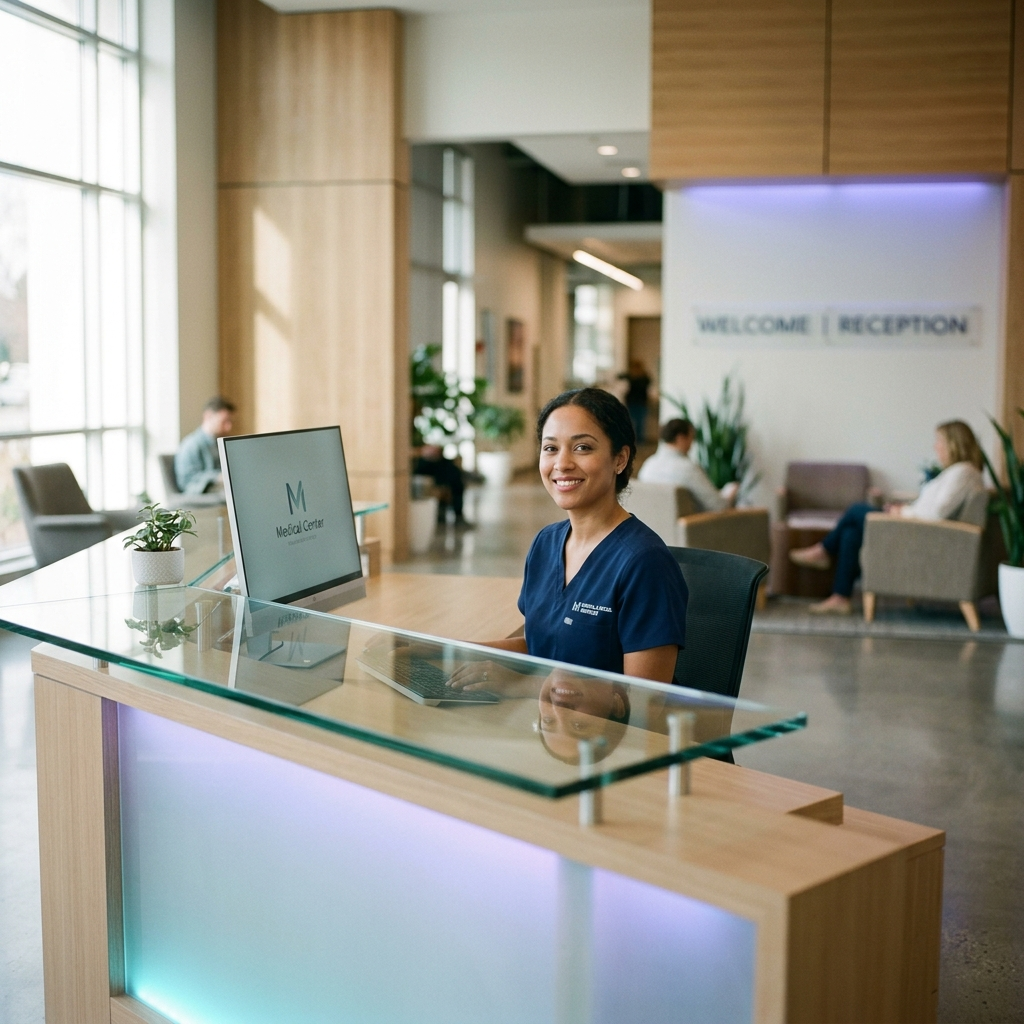
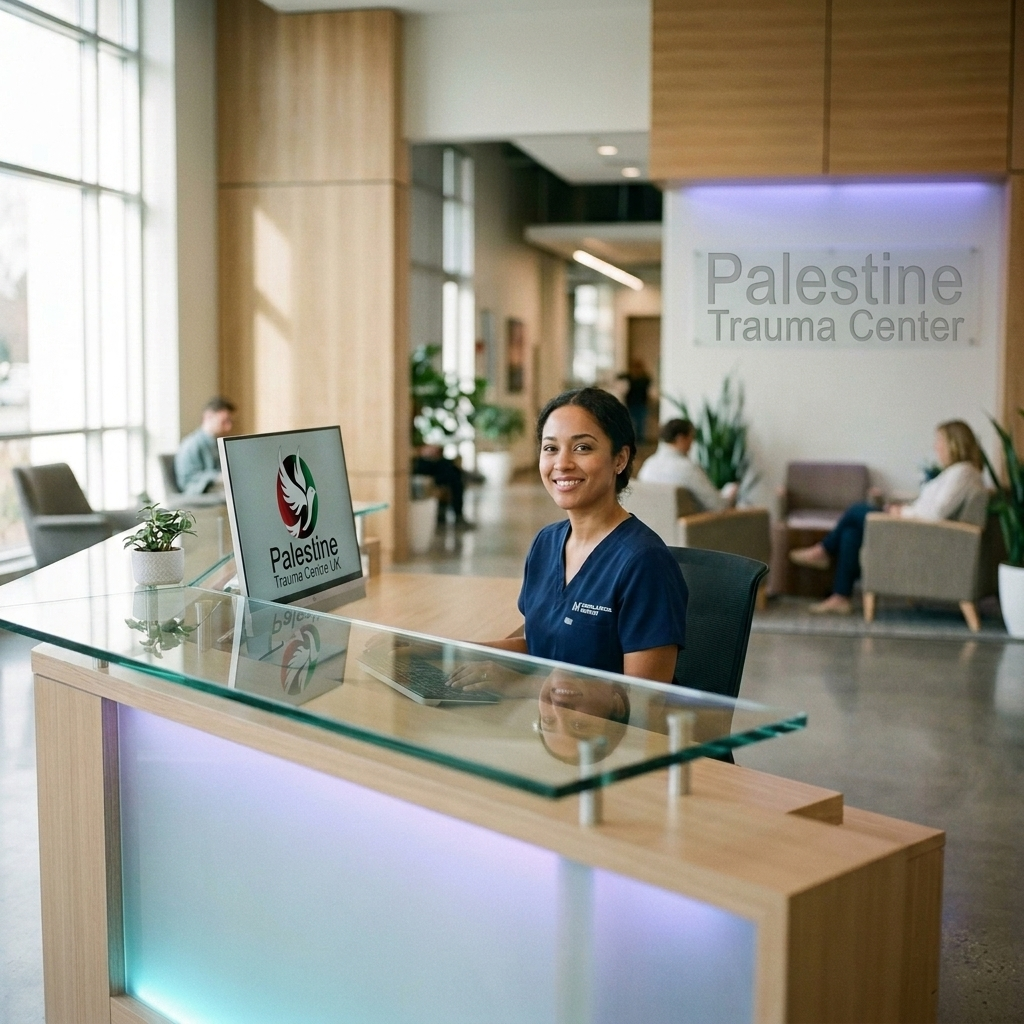
updates

diff --git a/public/assets/dashbaord/css/export-premium.css b/public/assets/dashbaord/css/export-premium.css
@@ -1,0 +1,159 @@
+/* ==========================================================================
+   Employee Export - Professional UI Standardization
+   ========================================================================== */
+
+/* Header Buttons Alignment Fix */
+.export-header-actions {
+    display: flex !important;
+    align-items: center !important;
+    gap: 12px !important;
+    margin-bottom: 1rem;
+}
+
+/* Premium Buttons Styling */
+.btn-premium-reset, .btn-premium-excel, .btn-premium-blue {
+    border-radius: 10px !important;
+    padding: 10px 24px !important;
+    font-weight: 600 !important;
+    display: inline-flex !important;
+    align-items: center !important;
+    gap: 10px !important;
+    transition: all 0.3s cubic-bezier(0.4, 0, 0.2, 1) !important;
+    font-size: 0.9rem !important;
+}
+
+.btn-premium-reset {
+    background: #fff !important;
+    border: 1px solid #ff4961 !important;
+    color: #ff4961 !important;
+}
+
+.btn-premium-reset:hover {
+    background: #fff5f6 !important;
+    box-shadow: 0 4px 12px rgba(255, 73, 97, 0.15) !important;
+    transform: translateY(-1px);
+}
+
+.btn-premium-excel {
+    background: #28a745 !important;
+    border: none !important;
+    color: #fff !important;
+    box-shadow: 0 4px 12px rgba(40, 167, 69, 0.2) !important;
+}
+
+.btn-premium-excel:hover {
+    background: #218838 !important;
+    box-shadow: 0 6px 15px rgba(40, 167, 69, 0.3) !important;
+    transform: translateY(-1px);
+}
+
+/* Premium Switch Box & Label */
+.premium-switch-box {
+    border-radius: 12px !important;
+    border: 1px solid #e2e8f0 !important;
+    padding: 12px 18px !important;
+    display: flex !important;
+    align-items: center !important;
+    justify-content: space-between !important;
+    background: #fff !important;
+    transition: all 0.2s ease !important;
+    height: 100%;
+}
+
+.premium-switch-box:hover {
+    border-color: #cbd5e1 !important;
+    background: #f8fafc !important;
+}
+
+.premium-switch-label {
+    font-size: 0.95rem !important;
+    font-weight: 600 !important;
+    color: #334155 !important;
+    margin: 0 !important;
+    line-height: 1.2 !important;
+}
+
+/* Modern Switch RTL Support - Corrected Selector */
+[data-textdirection="rtl"] .premium-switch-box {
+    flex-direction: row-reverse !important;
+}
+
+[data-textdirection="rtl"] .premium-switch-label {
+    text-align: right !important;
+}
+
+[data-textdirection="rtl"] .modern-slider:before {
+    left: auto !important;
+    right: 3px !important;
+}
+
+[data-textdirection="rtl"] input:checked + .modern-slider:before {
+    transform: translateX(-18px) !important;
+}
+
+/* Select2 Multi-select Positioning Fix (Universal Trailing Edge) */
+.select2-container--default .select2-selection--multiple .select2-selection__choice {
+    display: inline-flex !important;
+    align-items: center !important;
+    padding: 3px 12px !important;
+    gap: 0 !important; /* Managed by margins */
+}
+
+.select2-container--default .select2-selection--multiple .select2-selection__choice__remove {
+    float: none !important;
+    order: 2 !important; /* Forces X to the end of the text flow */
+    color: #fff !important;
+    opacity: 0.8;
+    font-weight: bold !important;
+    transition: all 0.2s ease;
+    border: none !important;
+}
+
+/* LTR Specifics: X to the Right */
+[data-textdirection="ltr"] .select2-selection__choice__remove {
+    margin-left: 8px !important;
+    margin-right: -4px !important;
+}
+
+/* RTL Specifics: X to the Left */
+[data-textdirection="rtl"] .select2-selection__choice__remove {
+    margin-right: 8px !important;
+    margin-left: -4px !important;
+}
+
+.select2-container--default .select2-selection--multiple .select2-selection__choice__remove:hover {
+    opacity: 1;
+    transform: scale(1.2);
+    background: transparent !important;
+}
+
+/* Section Titles Styling */
+.premium-section-title {
+    background-color: #f8fafc !important;
+    border-radius: 8px !important;
+    padding: 10px 15px !important;
+    margin-bottom: 1.5rem !important;
+    font-size: 1.05rem !important;
+    font-weight: 700 !important;
+    display: flex !important;
+    align-items: center !important;
+    gap: 12px !important;
+    color: #1e293b !important;
+}
+
+.premium-section-title-blue { border-left: 5px solid #1e9ff2 !important; }
+.premium-section-title-green { border-left: 5px solid #28d094 !important; }
+
+[data-textdirection="rtl"] .premium-section-title-blue {
+    border-left: none !important;
+    border-right: 5px solid #1e9ff2 !important;
+}
+[data-textdirection="rtl"] .premium-section-title-green {
+    border-left: none !important;
+    border-right: 5px solid #28d094 !important;
+}
+
+/* Utilities */
+.gap-2 { gap: 0.5rem !important; }
+.radius-10 { border-radius: 10px !important; }
+.radius-12 { border-radius: 12px !important; }

diff --git a/public/assets/employees/css/employee-premium.css b/public/assets/employees/css/employee-premium.css
@@ -712,7 +712,7 @@ p, span, div, li, a { font-size: 0.95rem !important; }
     padding-left: 5px !important;
 }
 
-.input-group-merge .form-control, 
+.input-group-merge .form-control,
 .input-group-merge .form-select {
     padding: 12px 10px !important;
     height: auto !important;
@@ -1476,9 +1476,10 @@ p, span, div, li, a { font-size: 0.95rem !important; }
     border-radius: 16px !important;
     background: var(--clean-white) !important;
     box-shadow: 0 4px 20px rgba(0,0,0,0.05) !important;
-    height: 100% !important;
     display: flex !important;
     flex-direction: column !important;
+    margin: 0 !important;
+    min-height: 100% !important;
 }
 
 .msg-sidebar-btn {
@@ -1567,9 +1568,10 @@ p, span, div, li, a { font-size: 0.95rem !important; }
     background: var(--clean-white) !important;
     box-shadow: 0 4px 20px rgba(0,0,0,0.05) !important;
     overflow: hidden;
-    height: 100% !important;
     display: flex !important;
     flex-direction: column !important;
+    margin: 0 !important;
+    min-height: 100% !important;
 }
 
 .msg-main-card .card-body {

diff --git a/resources/views/dashboard/employees/reports/partials/_columns.blade.php b/resources/views/dashboard/employees/reports/partials/_columns.blade.php
@@ -17,11 +17,11 @@
 
             <!-- Control Buttons -->
             <div class="row mb-3">
-                <div class="col-md-12">
-                    <button type="button" class="btn btn-info btn-glow btn-bulk-select mr-1 radius-12" id="select_all_columns">
+                <div class="col-md-12 d-flex gap-2">
+                    <button type="button" class="btn btn-info btn-glow btn-premium-blue radius-12 shadow-sm" id="select_all_columns">
                         <i class="la la-check-square"></i> {!! __('general.select_all') !!}
                     </button>
-                    <button type="button" class="btn btn-outline-danger btn-bulk-select radius-12" id="deselect_all_columns">
+                    <button type="button" class="btn btn-outline-danger btn-premium-reset radius-12 shadow-sm" id="deselect_all_columns">
                         <i class="la la-square-o"></i> {!! __('general.deselect_all') !!}
                     </button>
                 </div>
@@ -31,12 +31,12 @@
             <div class="row">
                 <div class="col-md-12">
                     <h5 class="premium-section-title premium-section-title-blue">
-                        <i class="la la-user text-primary"></i> {!! __('employees.basic') !!}
+                        <i class="la la-user"></i> {!! __('employees.basic') !!}
                     </h5>
                 </div>
                 @foreach ($employeeColumnNames as $column)
-                    <div class="col-md-3 mb-1">
-                        <div class="premium-switch-box">
+                    <div class="col-md-3 mb-2">
+                        <div class="premium-switch-box shadow-sm">
                             <span class="premium-switch-label">{!! __('employees.' . $column) !!}</span>
                             <label class="modern-switch">
                                 <input type="checkbox" name="columns[]" value="{{ $column }}"
@@ -48,7 +48,7 @@
                 @endforeach
             </div>
 
-            <hr class="my-3">
+            <hr class="my-3 opacity-20">
 
             <!-- Job Details Columns -->
             <div class="row">
@@ -58,8 +58,8 @@
                     </h5>
                 </div>
                 @foreach ($jobDetailsColumnNames as $column)
-                    <div class="col-md-3 mb-1">
-                        <div class="premium-switch-box">
+                    <div class="col-md-3 mb-2">
+                        <div class="premium-switch-box shadow-sm">
                             <span class="premium-switch-label">{!! __('employees.' . $column) !!}</span>
                             <label class="modern-switch">
                                 <input type="checkbox" name="columns[]" value="{{ $column }}"

diff --git a/resources/views/dashboard/employees/reports/report.blade.php b/resources/views/dashboard/employees/reports/report.blade.php
@@ -5,6 +5,7 @@
 
 @push('style')
     <link rel="stylesheet" href="{{ asset('assets/dashbaord/vendors/css/forms/selects/select2.min.css') }}">
+    <link rel="stylesheet" href="{{ asset('assets/dashbaord/css/export-premium.css') }}">
 @endpush
 
 @section('content')
@@ -45,13 +46,12 @@
 
                     <!-- begin: content header right-->
                     <div class="content-header-right col-md-6 col-12">
-                        <div class="float-md-right mb-2">
-
-                            <a href="" class="btn btn-sm btn-outline-danger mr-1 btn-premium-reset" id="employees_reset_btn">
+                        <div class="d-flex align-items-center justify-content-md-end justify-content-center gap-2 mb-2">
+                            <a href="" class="btn btn-outline-danger btn-premium-reset shadow-sm" id="employees_reset_btn">
                                 <i class="la la-refresh"></i> {!! __('general.reset') !!}
                             </a>
 
-                            <button class="btn btn-success btn-glow px-2 btn-premium-excel" type="submit">
+                            <button class="btn btn-premium-excel shadow-sm" type="submit">
                                 <i class="la la-file-excel-o"></i> {!! __('general.excel') !!}
                             </button>
                         </div>
@@ -147,11 +147,13 @@
                             if (response.status && response.data) {
                                 $.each(response.data, function(index, city) {
                                     // Handle translated city name
-                                    var cityName = typeof city.name === 'object' ? 
-                                                   ( $('html').attr('data-textdirection') == 'rtl' ? city.name.ar : city.name.en ) : 
-                                                   city.name;
-                                                   
-                                    $citySelect.append('<option value="' + city.id + '">' + cityName + '</option>');
+                                    var cityName = typeof city.name === 'object' ?
+                                        ($('html').attr('data-textdirection') == 'rtl' ?
+                                            city.name.ar : city.name.en) :
+                                        city.name;
+
+                                    $citySelect.append('<option value="' + city.id +
+                                        '">' + cityName + '</option>');
                                 });
                                 // Enable and refresh select2
                                 $citySelect.prop('disabled', false).trigger('change');

diff --git a/resources/views/livewire/employee/messages/message-center.blade.php b/resources/views/livewire/employee/messages/message-center.blade.php
@@ -1,7 +1,7 @@
-<div class="row align-items-stretch">
-    <div class="col-md-3 mb-4">
-        <div class="msg-sidebar-card shadow-sm border-0">
-            <div class="card-body p-0 h-100 d-flex flex-column">
+<div class="row no-gutters align-items-stretch" style="margin-left: -10px; margin-right: -10px;">
+    <div class="col-md-3 px-2 mb-4 d-flex flex-column" style="margin-top: 0 !important; padding-top: 0 !important;">
+        <div class="msg-sidebar-card shadow-sm border-0 flex-grow-1">
+            <div class="card-body p-0 d-flex flex-column h-100">
                 <div class="p-3 border-bottom text-center">
                     <button type="button" class="btn msg-sidebar-btn w-100"
                         data-bs-toggle="modal" data-bs-target="#composeModal">
@@ -35,17 +35,16 @@
     </div>
 
     <!-- Main Content -->
-    <div class="col-md-9 mb-4 {{ app()->getLocale() == 'ar' ? 'float-left' : '' }}">
-        <div class="h-100">
-            @if ($currentView === 'inbox')
-                <livewire:employee.messages.inbox wire:key="view-inbox-{{ $currentView }}" />
-            @elseif($currentView === 'sent')
-                <livewire:employee.messages.sent wire:key="view-sent-{{ $currentView }}" />
-            @elseif($currentView === 'starred')
-                <livewire:employee.messages.starred wire:key="view-starred-{{ $currentView }}" />
-            @elseif($currentView === 'trash')
-                <livewire:employee.messages.trash wire:key="view-trash-{{ $currentView }}" />
-            @endif
-        </div>
+    <div class="col-md-9 px-2 mb-4 d-flex flex-column" style="margin-top: 0 !important; padding-top: 0 !important;">
+        @if ($currentView === 'inbox')
+            <livewire:employee.messages.inbox wire:key="view-inbox-{{ $currentView }}" />
+        @elseif($currentView === 'sent')
+            <livewire:employee.messages.sent wire:key="view-sent-{{ $currentView }}" />
+        @elseif($currentView === 'starred')
+            <livewire:employee.messages.starred wire:key="view-starred-{{ $currentView }}" />
+        @elseif($currentView === 'trash')
+            <livewire:employee.messages.trash wire:key="view-trash-{{ $currentView }}" />
+        @endif
     </div>
 </div>
+

diff --git a/resources/views/dashboard/employees/reports/partials/_search-report.blade.php b/resources/views/dashboard/employees/reports/partials/_search-report.blade.php
@@ -28,11 +28,11 @@
                                 <option value="{{ $employee->id }}">{{ $employee->name }}</option>
                             @endforeach
                         </select>
-                        <div class="bulk-select-actions">
-                            <button type="button" class="btn btn-primary btn-glow btn-bulk-select" id="select_all_employees">
+                        <div class="bulk-select-actions d-flex gap-2 mt-2">
+                            <button type="button" class="btn btn-primary btn-glow btn-premium-add radius-10" id="select_all_employees">
                                 <i class="la la-check-square"></i> {!! __('general.select_all') !!}
                             </button>
-                            <button type="button" class="btn btn-outline-danger btn-bulk-select" id="deselect_all_employees">
+                            <button type="button" class="btn btn-outline-danger btn-premium-reset radius-10" id="deselect_all_employees">
                                 <i class="la la-times-circle"></i> {!! __('general.deselect_all') !!}
                             </button>
                         </div>

diff --git a/resources/views/dashboard/home/monthly-reports/modal.blade.php b/resources/views/dashboard/home/monthly-reports/modal.blade.php
@@ -6,7 +6,8 @@
 
             <!--begin::modal header-->
             <div class="modal-header">
-                <h5 class="modal-title font-weight-bold d-flex align-items-center" id="monthlyReportsEmployeesModalLabel"> 
+                <h5 class="modal-title font-weight-bold d-flex align-items-center"
+                    id="monthlyReportsEmployeesModalLabel">
                     <i class="la la-users text-primary mr-2"></i>
                     {!! __('monthlyReports.show_employees') !!}
                 </h5>

diff --git a/resources/views/layouts/employees/app.blade.php b/resources/views/layouts/employees/app.blade.php
@@ -28,7 +28,7 @@
     <link rel="stylesheet" href="{!! asset('vendor/flasher/flasher.min.css') !!}" rel="stylesheet">
     <link href="{!! asset('assets/employees/css/summernote.css') !!}" rel="stylesheet">
     <!-- End plugin css for this page -->
-    
+
     <!-- inject:css -->
     <link rel="stylesheet"
         href="{!! asset('assets/employees/css/style.css') !!}?v={{ file_exists(public_path('assets/employees/css/style.css')) ? filemtime(public_path('assets/employees/css/style.css')) : time() }}">

diff --git a/resources/views/livewire/employee/messages/inbox.blade.php b/resources/views/livewire/employee/messages/inbox.blade.php
@@ -1,5 +1,5 @@
-<div class="h-100">
-    <div class="msg-main-card border-0">
+<div class="h-100 d-flex flex-column flex-grow-1">
+    <div class="msg-main-card border-0 flex-grow-1">
         <div class="card-body">
             <div class="d-sm-flex justify-content-between align-items-center msg-card-header-premium">
                 <div>

diff --git a/resources/views/livewire/employee/messages/sent.blade.php b/resources/views/livewire/employee/messages/sent.blade.php
@@ -1,5 +1,5 @@
-<div class="h-100">
-    <div class="msg-main-card border-0">
+<div class="h-100 d-flex flex-column flex-grow-1">
+    <div class="msg-main-card border-0 flex-grow-1">
         <div class="card-body">
             <div class="d-sm-flex justify-content-between align-items-center msg-card-header-premium">
                 <div>

diff --git a/resources/views/livewire/employee/messages/starred.blade.php b/resources/views/livewire/employee/messages/starred.blade.php
@@ -1,5 +1,5 @@
-<div class="h-100">
-    <div class="msg-main-card border-0">
+<div class="h-100 d-flex flex-column flex-grow-1">
+    <div class="msg-main-card border-0 flex-grow-1">
         <div class="card-body">
             <div class="d-sm-flex justify-content-between align-items-center msg-card-header-premium">
                 <div>

diff --git a/resources/views/livewire/employee/messages/trash.blade.php b/resources/views/livewire/employee/messages/trash.blade.php
@@ -1,5 +1,5 @@
-<div class="h-100">
-    <div class="msg-main-card border-0">
+<div class="h-100 d-flex flex-column flex-grow-1">
+    <div class="msg-main-card border-0 flex-grow-1">
         <div class="card-body">
             <div class="d-sm-flex justify-content-between align-items-center msg-card-header-premium">
                 <div>
